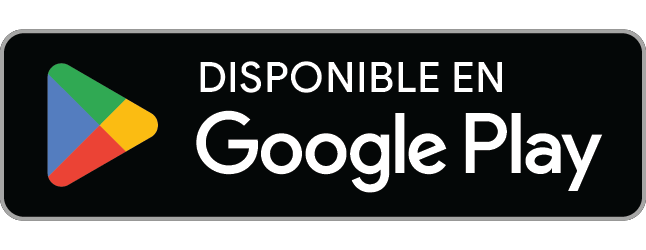
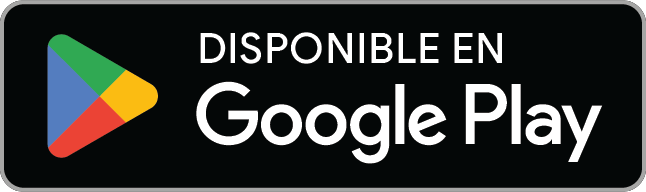
Home page: Trip Planner button back in the top bar, Get the app button removed, Google Play badges trimmed to the same size as the App Store badge (Spanish one was too big)

diff --git a/es/index.html b/es/index.html
@@ -72,16 +72,19 @@
     <a class="site-nav-brand" href="/es/"><img src="/images/icon/apple-touch-icon.png" alt="" width="32" height="32">Cerqa</a>
     <div class="site-nav-right">
       <a class="site-nav-lang" href="/" hreflang="en" lang="en">English</a>
-      <a class="site-nav-cta" id="get-app" href="#get">Descargar</a>
+      <a class="site-nav-planner" href="https://ride.cerqa.app" target="_blank" rel="noopener">
+        <svg viewBox="0 0 24 24" xmlns="http://www.w3.org/2000/svg"><path d="M12 2C8.13 2 5 5.13 5 9c0 5.25 7 13 7 13s7-7.75 7-13c0-3.87-3.13-7-7-7zm0 9.5A2.5 2.5 0 1 1 12 6.5a2.5 2.5 0 0 1 0 5z"/></svg>
+        <span>Planear viaje</span>
+      </a>
     </div>
   </nav>
 
-  <header class="hero" id="get">
+  <header class="hero">
     <h1>Que todos lleguen.</h1>
     <p class="subtext">Ve dónde está cada quien, a qué hora llega, y naveguen juntos. Para viajes en carretera, reuniones y cualquier salida.</p>
     <div class="store-badges">
       <a href="https://apps.apple.com/mx/app/cerqa-app/id6762389261" target="_blank" rel="noopener"><img class="badge-apple" src="/images/badges/app-store-es-mx.svg" alt="Descárgalo en el App Store" width="156" height="52"></a>
-      <a href="https://play.google.com/store/apps/details?id=com.cerqa.app&amp;referrer=utm_source%3Dcerqa.app%26utm_medium%3Dweb%26utm_campaign%3Dhome_es" target="_blank" rel="noopener"><img class="badge-google" src="/images/badges/google-play-es.png" alt="Disponible en Google Play" width="199" height="77"></a>
+      <a href="https://play.google.com/store/apps/details?id=com.cerqa.app&amp;referrer=utm_source%3Dcerqa.app%26utm_medium%3Dweb%26utm_campaign%3Dhome_es" target="_blank" rel="noopener"><img class="badge-google" src="/images/badges/google-play-es.png" alt="Disponible en Google Play" width="175" height="52"></a>
     </div>
     <p class="fine">Gratis en iPhone y Android. Funciona con Apple CarPlay.</p>
   </header>
@@ -265,7 +268,7 @@
     <p>Descarga Cerqa gratis e invita a las personas con las que viajas.</p>
     <div class="store-badges">
       <a href="https://apps.apple.com/mx/app/cerqa-app/id6762389261" target="_blank" rel="noopener"><img class="badge-apple" src="/images/badges/app-store-es-mx.svg" alt="Descárgalo en el App Store" width="156" height="52"></a>
-      <a href="https://play.google.com/store/apps/details?id=com.cerqa.app&amp;referrer=utm_source%3Dcerqa.app%26utm_medium%3Dweb%26utm_campaign%3Dhome_es_bottom" target="_blank" rel="noopener"><img class="badge-google" src="/images/badges/google-play-es.png" alt="Disponible en Google Play" width="199" height="77"></a>
+      <a href="https://play.google.com/store/apps/details?id=com.cerqa.app&amp;referrer=utm_source%3Dcerqa.app%26utm_medium%3Dweb%26utm_campaign%3Dhome_es_bottom" target="_blank" rel="noopener"><img class="badge-google" src="/images/badges/google-play-es.png" alt="Disponible en Google Play" width="175" height="52"></a>
     </div>
   </section>
 
@@ -276,12 +279,6 @@
   </footer>
 
   <script>
-    // "Get the app" goes straight to the right store on phones.
-    (function () {
-      var ua = navigator.userAgent, a = document.getElementById("get-app");
-      if (/iPhone|iPad|iPod/.test(ua)) a.href = "https://apps.apple.com/mx/app/cerqa-app/id6762389261";
-      else if (/Android/.test(ua)) a.href = "https://play.google.com/store/apps/details?id=com.cerqa.app&referrer=utm_source%3Dcerqa.app%26utm_medium%3Dweb%26utm_campaign%3Dhome_es_nav";
-    })();
     // Videos load and play only while on screen.
     (function () {
       var vids = document.querySelectorAll("video[data-src]");

diff --git a/index.html b/index.html
@@ -72,16 +72,19 @@
     <a class="site-nav-brand" href="/"><img src="/images/icon/apple-touch-icon.png" alt="" width="32" height="32">Cerqa</a>
     <div class="site-nav-right">
       <a class="site-nav-lang" href="/es/" hreflang="es" lang="es">Español</a>
-      <a class="site-nav-cta" id="get-app" href="#get">Get the app</a>
+      <a class="site-nav-planner" href="https://ride.cerqa.app" target="_blank" rel="noopener">
+        <svg viewBox="0 0 24 24" xmlns="http://www.w3.org/2000/svg"><path d="M12 2C8.13 2 5 5.13 5 9c0 5.25 7 13 7 13s7-7.75 7-13c0-3.87-3.13-7-7-7zm0 9.5A2.5 2.5 0 1 1 12 6.5a2.5 2.5 0 0 1 0 5z"/></svg>
+        <span>Trip Planner</span>
+      </a>
     </div>
   </nav>
 
-  <header class="hero" id="get">
+  <header class="hero">
     <h1>Get everyone there.</h1>
     <p class="subtext">See where everyone is, when they'll arrive, and navigate together. For road trips, meetups and every drive in between.</p>
     <div class="store-badges">
       <a href="https://apps.apple.com/us/app/cerqa-app/id6762389261" target="_blank" rel="noopener"><img class="badge-apple" src="/images/badges/app-store-en-us.svg" alt="Download on the App Store" width="156" height="52"></a>
-      <a href="https://play.google.com/store/apps/details?id=com.cerqa.app&amp;referrer=utm_source%3Dcerqa.app%26utm_medium%3Dweb%26utm_campaign%3Dhome_en" target="_blank" rel="noopener"><img class="badge-google" src="/images/badges/google-play-en.png" alt="Get it on Google Play" width="199" height="77"></a>
+      <a href="https://play.google.com/store/apps/details?id=com.cerqa.app&amp;referrer=utm_source%3Dcerqa.app%26utm_medium%3Dweb%26utm_campaign%3Dhome_en" target="_blank" rel="noopener"><img class="badge-google" src="/images/badges/google-play-en.png" alt="Get it on Google Play" width="175" height="52"></a>
     </div>
     <p class="fine">Free on iPhone and Android. Works with Apple CarPlay.</p>
   </header>
@@ -265,7 +268,7 @@
     <p>Get Cerqa free and invite the people you travel with.</p>
     <div class="store-badges">
       <a href="https://apps.apple.com/us/app/cerqa-app/id6762389261" target="_blank" rel="noopener"><img class="badge-apple" src="/images/badges/app-store-en-us.svg" alt="Download on the App Store" width="156" height="52"></a>
-      <a href="https://play.google.com/store/apps/details?id=com.cerqa.app&amp;referrer=utm_source%3Dcerqa.app%26utm_medium%3Dweb%26utm_campaign%3Dhome_en_bottom" target="_blank" rel="noopener"><img class="badge-google" src="/images/badges/google-play-en.png" alt="Get it on Google Play" width="199" height="77"></a>
+      <a href="https://play.google.com/store/apps/details?id=com.cerqa.app&amp;referrer=utm_source%3Dcerqa.app%26utm_medium%3Dweb%26utm_campaign%3Dhome_en_bottom" target="_blank" rel="noopener"><img class="badge-google" src="/images/badges/google-play-en.png" alt="Get it on Google Play" width="175" height="52"></a>
     </div>
   </section>
 
@@ -276,12 +279,6 @@
   </footer>
 
   <script>
-    // "Get the app" goes straight to the right store on phones.
-    (function () {
-      var ua = navigator.userAgent, a = document.getElementById("get-app");
-      if (/iPhone|iPad|iPod/.test(ua)) a.href = "https://apps.apple.com/us/app/cerqa-app/id6762389261";
-      else if (/Android/.test(ua)) a.href = "https://play.google.com/store/apps/details?id=com.cerqa.app&referrer=utm_source%3Dcerqa.app%26utm_medium%3Dweb%26utm_campaign%3Dhome_en_nav";
-    })();
     // Videos load and play only while on screen.
     (function () {
       var vids = document.querySelectorAll("video[data-src]");

diff --git a/assets/home.css b/assets/home.css
@@ -42,17 +42,27 @@ a { color: #4a6fa5; }
   text-decoration: none;
 }
 
-.site-nav-cta {
-  background: #1b2d4a;
+
+/* Trip Planner: the web part of Cerqa (ride.cerqa.app), kept prominent in the top bar. */
+.site-nav-planner {
+  display: inline-flex;
+  align-items: center;
+  gap: 8px;
+  background: #4a6fa5;
   color: #fff;
-  font-size: 14px;
+  font-size: 15px;
   font-weight: 600;
-  padding: 9px 18px;
+  padding: 10px 20px;
   border-radius: 10px;
   text-decoration: none;
 }
 
-.site-nav-cta:hover { background: #2b4166; }
+.site-nav-planner:hover { background: #3d5c8a; }
+.site-nav-planner svg { width: 16px; height: 16px; fill: #fff; flex-shrink: 0; }
+
+@media (max-width: 420px) {
+  .site-nav-planner { padding: 10px 14px; font-size: 14px; }
+}
 
 /* ── HERO ── */
 .hero {
@@ -85,8 +95,7 @@ a { color: #4a6fa5; }
 
 .store-badges a { display: inline-block; line-height: 0; }
 .store-badges .badge-apple { height: 52px; width: auto; }
-/* Google's badge image has its own padding around the button. */
-.store-badges .badge-google { height: 77px; width: auto; margin: -12px -10px; }
+.store-badges .badge-google { height: 52px; width: auto; }
 
 .hero .fine {
   font-size: 14px;

diff --git a/scripts/build_home.py b/scripts/build_home.py
@@ -26,13 +26,12 @@ SHOTS = [  # (file, ios file) shown as iPhone + Android pairs
 
 T = {
     "en": {
-        "path": "/", "alt": "/es/", "lang_link": "Español", "cc": "us", "campaign": "home_en",
+        "path": "/", "alt": "/es/", "lang_link": "Español", "planner_nav": "Trip Planner", "cc": "us", "campaign": "home_en",
         "title": "Cerqa | Live location and group navigation for road trips",
         "desc": "Share live location, see everyone's arrival time and navigate together. Cerqa keeps family and friends together on road trips, meetups and group drives. Free on iPhone and Android.",
         "og_title": "Cerqa: get everyone there",
         "og_desc": "Live location, arrival times and group navigation for family and friends.",
         "og_locale": ("en_US", "es_MX"),
-        "get_app": "Get the app",
         "h1": "Get everyone there.",
         "sub": "See where everyone is, when they'll arrive, and navigate together. For road trips, meetups and every drive in between.",
         "fine": "Free on iPhone and Android. Works with Apple CarPlay.",
@@ -99,13 +98,12 @@ T = {
         "currency": "USD",
     },
     "es": {
-        "path": "/es/", "alt": "/", "lang_link": "English", "cc": "mx", "campaign": "home_es",
+        "path": "/es/", "alt": "/", "lang_link": "English", "planner_nav": "Planear viaje", "cc": "mx", "campaign": "home_es",
         "title": "Cerqa | Ubicación en vivo y navegación en grupo para viajes en carretera",
         "desc": "Comparte tu ubicación en vivo, ve a qué hora llega cada quien y naveguen juntos. Cerqa mantiene unidos a familia y amigos en viajes en carretera, reuniones y caravanas. Gratis en iPhone y Android.",
         "og_title": "Cerqa: que todos lleguen",
         "og_desc": "Ubicación en vivo, horas de llegada y navegación en grupo para familia y amigos.",
         "og_locale": ("es_MX", "en_US"),
-        "get_app": "Descargar",
         "h1": "Que todos lleguen.",
         "sub": "Ve dónde está cada quien, a qué hora llega, y naveguen juntos. Para viajes en carretera, reuniones y cualquier salida.",
         "fine": "Gratis en iPhone y Android. Funciona con Apple CarPlay.",
@@ -182,7 +180,7 @@ def analytics():
 def badges(t, campaign):
     return f"""<div class="store-badges">
       <a href="{APP_STORE.format(cc=t['cc'])}" target="_blank" rel="noopener"><img class="badge-apple" src="{t['apple_badge']}" alt="{t['apple_alt']}" width="156" height="52"></a>
-      <a href="{PLAY.format(campaign=campaign)}" target="_blank" rel="noopener"><img class="badge-google" src="{t['google_badge']}" alt="{t['google_alt']}" width="199" height="77"></a>
+      <a href="{PLAY.format(campaign=campaign)}" target="_blank" rel="noopener"><img class="badge-google" src="{t['google_badge']}" alt="{t['google_alt']}" width="175" height="52"></a>
     </div>"""
 
 
@@ -265,11 +263,14 @@ def build(lang, ga):
     <a class="site-nav-brand" href="{t['path']}"><img src="/images/icon/apple-touch-icon.png" alt="" width="32" height="32">Cerqa</a>
     <div class="site-nav-right">
       <a class="site-nav-lang" href="{t['alt']}" hreflang="{other}" lang="{other}">{t['lang_link']}</a>
-      <a class="site-nav-cta" id="get-app" href="#get">{t['get_app']}</a>
+      <a class="site-nav-planner" href="https://ride.cerqa.app" target="_blank" rel="noopener">
+        <svg viewBox="0 0 24 24" xmlns="http://www.w3.org/2000/svg"><path d="M12 2C8.13 2 5 5.13 5 9c0 5.25 7 13 7 13s7-7.75 7-13c0-3.87-3.13-7-7-7zm0 9.5A2.5 2.5 0 1 1 12 6.5a2.5 2.5 0 0 1 0 5z"/></svg>
+        <span>{t['planner_nav']}</span>
+      </a>
     </div>
   </nav>
 
-  <header class="hero" id="get">
+  <header class="hero">
     <h1>{t['h1']}</h1>
     <p class="subtext">{t['sub']}</p>
     {badges(t, t['campaign'])}
@@ -372,12 +373,6 @@ def build(lang, ga):
   </footer>
 
   <script>
-    // "Get the app" goes straight to the right store on phones.
-    (function () {{
-      var ua = navigator.userAgent, a = document.getElementById("get-app");
-      if (/iPhone|iPad|iPod/.test(ua)) a.href = "{APP_STORE.format(cc=t['cc'])}";
-      else if (/Android/.test(ua)) a.href = "{PLAY.format(campaign=t['campaign'] + '_nav').replace('&amp;', '&')}";
-    }})();
     // Videos load and play only while on screen.
     (function () {{
       var vids = document.querySelectorAll("video[data-src]");
